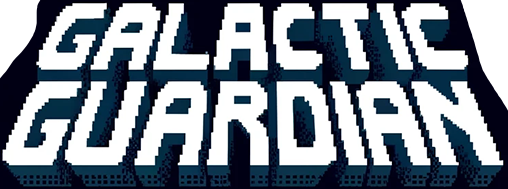
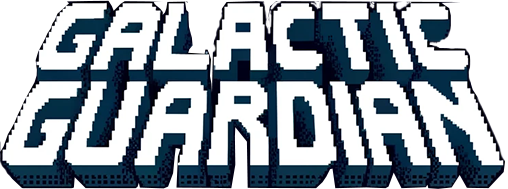
game

Changed region(s): [[0.0, 0.0, 1.0, 1.0]]

diff --git a/programs/competition/interface.c b/programs/competition/interface.c
@@ -18,6 +18,10 @@ Texture2D game_name;
 Texture2D start_button;
 Texture2D info_button;
 Texture2D exit_button;
+Texture2D astronaut;
+Texture2D skip_text_button;
+Texture2D space_background;
+// Sound bullet_sound;
 //Texture background_img;
 // Sound damage_sound;
 
@@ -25,6 +29,11 @@ int pickupIndex = 0;
 float pickupTimer = PICKUP_TIME;
 
 int heartIndex = 0;
+
+
+int skipTextIndex = 0;
+float skipTextTimer = 8;
+
 
 int buttonCounter = 1;
 float buttonTimer = 30;
@@ -36,8 +45,6 @@ int exitButtonIndex = 0;
 // Start menu background color
 Color menu_color = {1,0,20,0};
 
-
-
 // Αρχικοποιεί το interface του παιχνιδιού
 
 void interface_init(){
@@ -48,11 +55,20 @@ void interface_init(){
 	
 	// Load images
 
-    game_name = LoadTextureFromImage(LoadImage("assets/game_name.png"));
+    game_name = LoadTextureFromImage(LoadImage("assets/game_name_v2.png"));
+
     start_button = LoadTextureFromImage(LoadImage("assets/start_button.png"));
     info_button = LoadTextureFromImage(LoadImage("assets/info_button.png"));
     exit_button = LoadTextureFromImage(LoadImage("assets/exit_button.png"));
 
+    skip_text_button = LoadTextureFromImage(LoadImage("assets/skip_text_button.png"));
+
+    space_background = LoadTextureFromImage(LoadImage("assets/space.png"));
+
+
+    astronaut = LoadTextureFromImage(LoadImage("assets/astronaut.png"));
+    astronaut.height = astronaut.height * 10;
+    astronaut.width = astronaut.width * 10;
     enemy_scout = LoadTextureFromImage(LoadImage("assets/enemy_scout.png"));
     pickup = LoadTextureFromImage(LoadImage("assets/rocket_pickup.png"));
     heart = LoadTextureFromImage(LoadImage("assets/hearts.png"));
@@ -69,7 +85,8 @@ void interface_init(){
     exit_button.height = exit_button.height *1.2;
     exit_button.width = exit_button.width *1.2;
     // Load sounds
-    // Sound bullet_sound = LoadSound("assets/sound.wav");
+    // bullet_sound = LoadSound("assets/sound.wav");
+    
     // damage_sound = LoadSound("assets/hurt.wav");
 }
 
@@ -94,7 +111,9 @@ void interface_fade_in() {
 
 // Αρχικοποιεί το start menu του παιχνιδιού
 void interface_draw_menu() {
+        // if (IsKeyPressed(KEY_SPACE)) PlaySound(bullet_sound);      // Play WAV sound
 
+    
     buttonTimer --;
     if (buttonTimer < 0 && buttonCounter == 1){
         buttonTimer = 30;
@@ -136,14 +155,15 @@ void interface_draw_menu() {
             buttonCounter = 1;
     }
 
-    Vector2 gameNamePos = { SCREEN_WIDTH / 2 - game_name.width / 2, 40 };
+    Vector2 gameNamePos = { SCREEN_WIDTH / 2 - game_name.width / 2, 60 };
     Vector2 startButtonPos = { SCREEN_WIDTH / 2 - start_button.width / 2, 350 };
     Vector2 infoButtonPos = { SCREEN_WIDTH / 2 - info_button.width / 2, 450 };
     Vector2 exitButtonPos = { SCREEN_WIDTH / 2 - exit_button.width / 2, 550 };
 
     BeginDrawing();
     ClearBackground(menu_color);
-    
+    DrawTexture(space_background, 0, 0, WHITE);
+
     DrawTexture(game_name, gameNamePos.x, gameNamePos.y, WHITE);
 
     Rectangle start_source = (Rectangle){192 * startButtonIndex ,0,192,48};
@@ -181,23 +201,24 @@ void interface_draw_info(State state){
 };
 
 const char *introTexts[] = {
-    "TEST TEST TEST",
-    "NOT A TEST NOT A TEST NOT\n A TEST YES A TEST",
-    "I AM WATCHING YOU \nI AM NOT LOLOL",
-    "28/5/1923"
+    "Hello traveler!\nI am BRUNO.",
+    "You have to help me.\nMy galaxy is under attack!",
+    "You must find my spacecraft's parts\nthat are scattered across space.",
+    "Only then will I be able to escape."
 };
 const int numTexts = sizeof(introTexts) / sizeof(introTexts[0]);
 
 void interface_draw_intro(State state, GameState *gameState) {
     
     BeginDrawing();
-    ClearBackground(BLACK);
+    ClearBackground(menu_color);
 
     // Draw spaceman (rectangle for now)
-    DrawRectangle(SCREEN_WIDTH / 2 - 75, 150, 150, 300, RED);
+    // DrawRectangle(SCREEN_WIDTH / 2 - 75, 150, 150, 300, RED);
+    DrawTexture(astronaut,SCREEN_WIDTH / 2 - astronaut.width /2 ,150,WHITE);
 
     // Draw text box
-    DrawRectangle(0, 480, SCREEN_WIDTH, 200, LIGHTGRAY);
+    DrawRectangle(0, 480, SCREEN_WIDTH, 150, LIGHTGRAY);
 
     if (state_text(state)->textIndex >= 0 && state_text(state)->textIndex < numTexts) {
         const char *currentText = introTexts[state_text(state)->textIndex];
@@ -205,7 +226,7 @@ void interface_draw_intro(State state, GameState *gameState) {
 
         // Draw text letter by letter
         for (int i = 0; i < state_text(state)->index; i++) {
-            DrawText(TextSubtext(currentText, 0, i + 1), 20, 515, 40, BLACK);
+            DrawText(TextSubtext(currentText, 0, i + 1), 20, 500, 40, BLACK);
         }
 
         state_text(state)->timer += 1;
@@ -213,18 +234,28 @@ void interface_draw_intro(State state, GameState *gameState) {
             state_text(state)->index++;
             state_text(state)->timer = 0;
         }
+        
+        if (state_text(state)->index >= length) {
+            skipTextTimer++;
+            if (skipTextTimer >= 7) { 
+                skipTextIndex++;
+                if (skipTextIndex >= 8) 
+                    skipTextIndex = 0;
+                skipTextTimer = 0;
+            }
 
-        if (state_text(state)->index >= length && IsKeyPressed(KEY_ENTER)) {
-            state_text(state)->textIndex++;
-            if (state_text(state)->textIndex < numTexts) {
-                state_text(state)->index = 0; 
-            } else {
-                gameState->introduction = false;
-                gameState->gameplay = true;
+            Rectangle skipTextSource = { 45 * skipTextIndex, 0, 45, 38 };
+            DrawTextureRec(skip_text_button, skipTextSource, (Vector2){SCREEN_WIDTH - 70, 560}, WHITE);
+            if (IsKeyPressed(KEY_ENTER)) {
+                state_text(state)->textIndex++;
+                if (state_text(state)->textIndex < numTexts) {
+                    state_text(state)->index = 0; 
+                } else {
+                    gameState->introduction = false;
+                    gameState->gameplay = true;
+                }
             }
         }
-    }else{
-        printf("DADAD");
     }
 
     EndDrawing();

diff --git a/programs/competition/game.c b/programs/competition/game.c
@@ -63,7 +63,7 @@ int main() {
 
             // if hearts <= 0
             if (state_info(state)->lost) 
-                gameState.game_over = true;
+                break;
 				
         } else if (gameState.info_menu){
             interface_draw_info(state);
